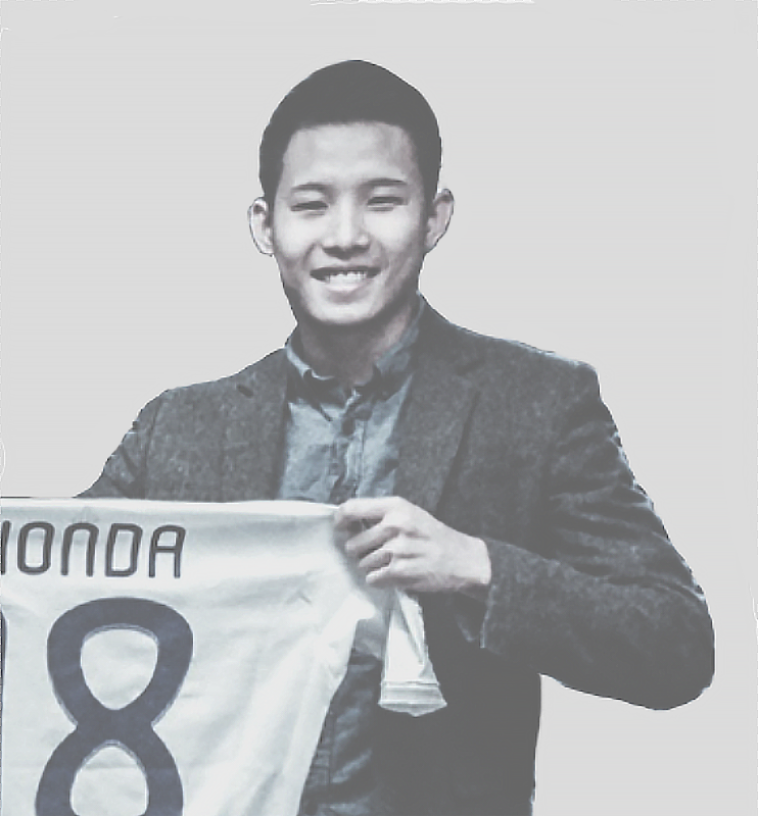
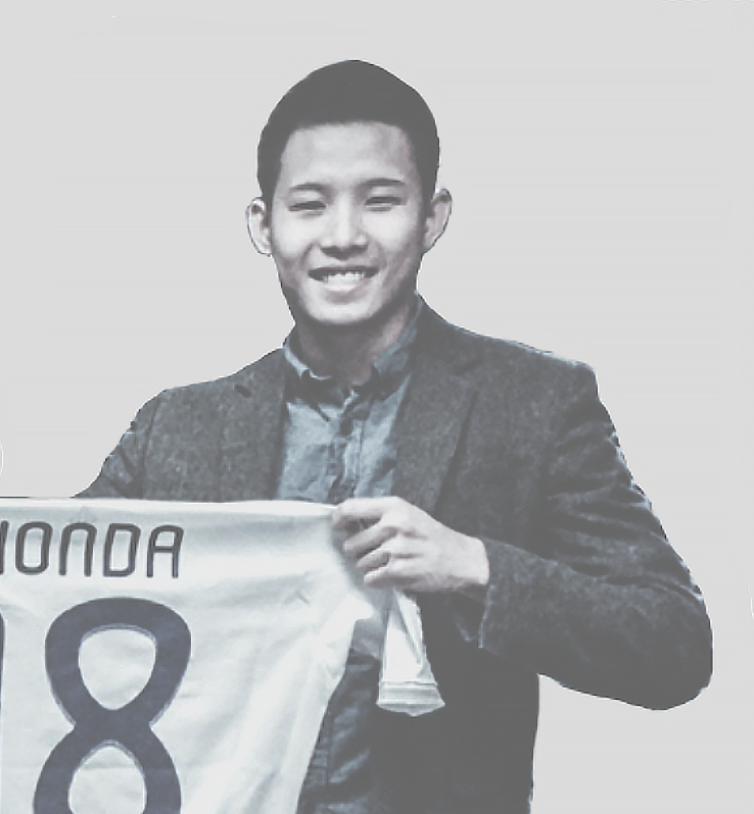
updated profile pic and theme

diff --git a/style.css b/style.css
@@ -10,7 +10,7 @@ body,h1,h2,h3,h4,h5,h6 {
     margin: 0 auto;
     border-right: .15em solid orange; /* blinking cursor */
     animation: type 1.5s steps(20, end), blink-caret .80s step-end infinite;
-    color: #777;
+    color: #D6D6D6;
 }
 
 @keyframes type {
@@ -68,13 +68,13 @@ a .fa{
 }    
 .background-1 { 
     /* Main Theme */
-    background-color: #D1D1D1; 
+    background-color: #22313F; 
     color: #ffffff;
 }
 
 .background-2 { 
      /* Cooler */
-    background-color: #22313F;
+    background-color: #6A7380;
     color: #ffffff;
 }
 .background-3 { 

diff --git a/index.html b/index.html
@@ -42,7 +42,7 @@
     <br>
     <br>
     <h3 id="h3-top"></h3>
-    <img src="image/pic2.png" class="img-circle img-responsive" alt="profile photo">
+    <img src="image/pic3.png" class="img-circle img-responsive" alt="profile photo">
     <h3></h3><br>
     <h3 class="type-animation"> < Welcome-to-my-website /></h3>
     <h3> </h3>
